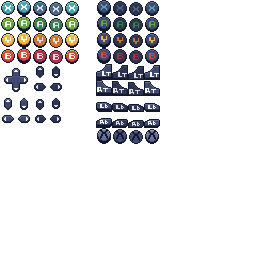
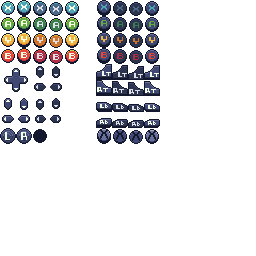
wip gamepad example

Changed region(s): [[0.0, 0.5, 0.1875, 0.5625]]

diff --git a/examples/gamepad/src/main.c b/examples/gamepad/src/main.c
@@ -1,37 +1,110 @@
-#include "nux.h"
+#include <nux.h>
+#define NU_IMPLEMENTATION
+#include <nulib.h>
 
-static u32 sprites[] = {
-    0, 16, 16, 16, 32, 16, 48, 16, // BUTTON_A
-    0, 0,  16, 0,  32, 0,  48, 0,  // BUTTON_X
-    0, 32, 16, 32, 32, 32, 48, 32, // BUTTON_Y
-    0, 48, 16, 48, 32, 48, 48, 48, // BUTTON_B
+static void
+blitt (nu_u32_t idx, nu_u32_t ts, nu_u32_t x, nu_u32_t y)
+{
+    blit(idx, x * ts, y * ts, ts, ts);
+}
+
+static nu_u32_t pressed[] = {
+    3, 1, // A
+    3, 0, // Y
+    3, 2, // B
+    3, 3, // X
+    2, 4, // UP
+    3, 4, // DOWN
+    2, 5, // LEFT
+    3, 5, // RIGHT
+    8, 6, // LB
+    8, 7, // RB
+};
+static nu_u32_t released[] = {
+    1, 1, // A
+    1, 0, // Y
+    1, 2, // B
+    1, 3, // X
+    0, 6, // UP
+    1, 6, // DOWN
+    0, 7, // LEFT
+    1, 7, // RIGHT
+    6, 6, // LB
+    6, 7, // RB
 };
 
-static u32 spritemap[] = {};
+static void
+draw_button (button_t b, nu_u32_t x, nu_u32_t y)
+{
+    cursor(x, y);
+    nu_u32_t        i = nu_log2(b);
+    const nu_u32_t *map;
+    if (button(0) & b)
+    {
+        map = pressed;
+    }
+    else
+    {
+        map = released;
+    }
+    blitt(0, 16, map[i * 2 + 0], map[i * 2 + 1]);
+}
+static void
+draw_stick (nu_bool_t left, nu_u32_t x, nu_u32_t y)
+{
+    nu_v2_t ax      = nu_v2(axis(0, left ? AXIS_LEFTX : AXIS_RIGHTX),
+                       axis(0, left ? AXIS_LEFTY : AXIS_RIGHTY));
+    ax              = nu_v2_normalize(ax);
+    nu_f32_t offset = 5;
+    nu_u32_t tx     = left ? 0 : 1;
+    nu_u32_t ty     = 8;
+    cursor(x, y);
+    blitt(0, 16, 2, ty);
+    cursor(x + offset * ax.x, y - offset * ax.y);
+    blitt(0, 16, tx, ty);
+}
+static void
+draw_trigger (nu_bool_t left, nu_u32_t x, nu_u32_t y)
+{
+    nu_f32_t ax     = axis(0, left ? AXIS_LT : AXIS_RT);
+    nu_f32_t offset = 3;
+    nu_u32_t tx     = 6;
+    nu_u32_t ty     = left ? 4 : 5;
+    cursor(x, y + offset * ax);
+    blitt(0, 16, tx, ty);
+}
 
 void
 start (void)
 {
-    trace("Hello World !");
 }
 
 void
 update (void)
 {
-    for (int j = 0; j < 4; ++j)
-    {
-        button_t b = BUTTON_A << j;
-        int      i = 0;
-        if (button(0) & b)
-        {
-            i = 3;
-        }
-        int offset = j * 8;
-        cursor(16, j * 16);
-        blit(0,
-             sprites[offset + i * 2 + 0],
-             sprites[offset + i * 2 + 1],
-             16,
-             16);
-    }
+    clear(NU_COLOR_GREY.rgba);
+    nu_v2u_t p = nu_v2u(100, 100);
+    nu_u32_t s = 12;
+    draw_button(BUTTON_A, p.x, p.y + s);
+    draw_button(BUTTON_Y, p.x, p.y - s);
+    draw_button(BUTTON_B, p.x + s, p.y);
+    draw_button(BUTTON_X, p.x - s, p.y);
+
+    p = nu_v2u(150, 100);
+    s = 8;
+    draw_button(BUTTON_DOWN, p.x, p.y + s);
+    draw_button(BUTTON_UP, p.x, p.y - s);
+    draw_button(BUTTON_RIGHT, p.x + s, p.y);
+    draw_button(BUTTON_LEFT, p.x - s, p.y);
+
+    p = nu_v2u(100, 50);
+    draw_button(BUTTON_LB, p.x, p.y);
+    p = nu_v2u(150, 50);
+    draw_button(BUTTON_RB, p.x, p.y);
+
+    draw_stick(NU_TRUE, 100, 150);
+    draw_stick(NU_FALSE, 150, 150);
+
+    draw_trigger(NU_TRUE, 100, 170);
+    draw_trigger(NU_FALSE, 150, 170);
 }

diff --git a/externals/nulib/nulib/math.h b/externals/nulib/nulib/math.h
@@ -204,15 +204,18 @@ NU_API nu_f32_t  nu_sin(nu_f32_t x);
 NU_API nu_f32_t  nu_tan(nu_f32_t x);
 NU_API nu_f32_t  nu_exp(nu_f32_t x);
 
-NU_API nu_v2_t nu_v2(nu_f32_t x, nu_f32_t y);
-NU_API nu_v2_t nu_v2_v2u(nu_v2u_t v);
-NU_API nu_v2_t nu_v2_add(nu_v2_t a, nu_v2_t b);
-NU_API nu_v2_t nu_v2_sub(nu_v2_t a, nu_v2_t b);
-NU_API nu_v2_t nu_v2_mul(nu_v2_t a, nu_v2_t b);
-NU_API nu_v2_t nu_v2_muls(nu_v2_t a, nu_f32_t s);
-NU_API nu_v2_t nu_v2_div(nu_v2_t a, nu_v2_t b);
-NU_API nu_v2_t nu_v2_divs(nu_v2_t a, nu_f32_t s);
-NU_API nu_v2_t nu_v2_floor(nu_v2_t a);
+NU_API nu_v2_t  nu_v2(nu_f32_t x, nu_f32_t y);
+NU_API nu_v2_t  nu_v2_v2u(nu_v2u_t v);
+NU_API nu_v2_t  nu_v2_add(nu_v2_t a, nu_v2_t b);
+NU_API nu_v2_t  nu_v2_sub(nu_v2_t a, nu_v2_t b);
+NU_API nu_v2_t  nu_v2_mul(nu_v2_t a, nu_v2_t b);
+NU_API nu_v2_t  nu_v2_muls(nu_v2_t a, nu_f32_t s);
+NU_API nu_v2_t  nu_v2_div(nu_v2_t a, nu_v2_t b);
+NU_API nu_v2_t  nu_v2_divs(nu_v2_t a, nu_f32_t s);
+NU_API nu_v2_t  nu_v2_floor(nu_v2_t a);
+NU_API nu_f32_t nu_v2_dot(nu_v2_t a, nu_v2_t b);
+NU_API nu_f32_t nu_v2_norm(nu_v2_t a);
+NU_API nu_v2_t  nu_v2_normalize(nu_v2_t v);
 
 NU_API nu_v3_t  nu_v3(nu_f32_t x, nu_f32_t y, nu_f32_t z);
 NU_API nu_v3_t  nu_v3s(nu_f32_t s);

diff --git a/externals/nulib/nulib/types.h b/externals/nulib/nulib/types.h
@@ -13,15 +13,17 @@
 #define NU_NULL  0
 #define NU_NOOP
 
-#define NU_DEFAULT_ALIGN  16
-#define NU_COLOR_WHITE    nu_color(255, 255, 255, 0)
-#define NU_COLOR_BLACK    nu_color(0, 0, 0, 0)
-#define NU_COLOR_RED      nu_color(255, 0, 0, 0)
-#define NU_COLOR_GREEN    nu_color(0, 255, 0, 0)
-#define NU_COLOR_BLUE     nu_color(0, 0, 255, 0)
-#define NU_COLOR_BLUE_SKY nu_color(52, 181, 248, 0)
-#define NU_PI             3.14159265359
-#define NU_FLT_MAX        3.402823E+38
+#define NU_DEFAULT_ALIGN   16
+#define NU_COLOR_WHITE     nu_color(255, 255, 255, 0)
+#define NU_COLOR_GREY      nu_color(128, 128, 128, 0)
+#define NU_COLOR_BLACK     nu_color(0, 0, 0, 0)
+#define NU_COLOR_RED       nu_color(255, 0, 0, 0)
+#define NU_COLOR_GREEN     nu_color(0, 255, 0, 0)
+#define NU_COLOR_BLUE      nu_color(0, 0, 255, 0)
+#define NU_COLOR_BLUE_SKY  nu_color(52, 181, 248, 0)
+#define NU_COLOR_BLUE_DARK nu_color(25, 27, 43, 255)
+#define NU_PI              3.14159265359
+#define NU_FLT_MAX         3.402823E+38
 
 #define NU_MIN(a, b)          (((a) < (b)) ? (a) : (b))
 #define NU_MAX(a, b)          (((a) > (b)) ? (a) : (b))

diff --git a/runtimes/native/window.c b/runtimes/native/window.c
@@ -144,7 +144,7 @@ key_to_button (nu_u32_t code)
 
         // Triggers
         case RGFW_e:
-            return SYS_BUTTON_LB;
+            return SYS_BUTTON_RB;
         case RGFW_q:
             return SYS_BUTTON_LB;
 
@@ -181,17 +181,24 @@ key_to_axis (nu_u32_t code, nu_f32_t *value)
 
         // Right Stick
         case RGFW_j:
-            *value = 1;
+            *value = -1;
             return SYS_AXIS_RIGHTY;
         case RGFW_h:
             *value = -1;
             return SYS_AXIS_RIGHTX;
         case RGFW_k:
-            *value = -1;
+            *value = 1;
             return SYS_AXIS_RIGHTY;
         case RGFW_l:
             *value = 1;
             return SYS_AXIS_RIGHTX;
+
+        case RGFW_u:
+            *value = 1;
+            return SYS_AXIS_LT;
+        case RGFW_o:
+            *value = 1;
+            return SYS_AXIS_RT;
 
         default:
             break;

diff --git a/externals/nulib/nulib/math_impl.h b/externals/nulib/nulib/math_impl.h
@@ -176,6 +176,29 @@ nu_v2_floor (nu_v2_t a)
     ret.y = nu_floor(a.y);
     return ret;
 }
+nu_f32_t
+nu_v2_dot (nu_v2_t a, nu_v2_t b)
+{
+    return a.x * b.x + a.y * b.y;
+}
+nu_f32_t
+nu_v2_norm (nu_v2_t a)
+{
+    return nu_sqrt(nu_v2_dot(a, a));
+}
+nu_v2_t
+nu_v2_normalize (nu_v2_t v)
+{
+    nu_f32_t norm = nu_v2_norm(v);
+    if (norm == 0)
+    {
+        return NU_V2_ZEROS;
+    }
+    nu_v2_t ret;
+    ret.x = v.x / norm;
+    ret.y = v.y / norm;
+    return ret;
+}
 
 nu_v3_t
 nu_v3 (nu_f32_t x, nu_f32_t y, nu_f32_t z)

diff --git a/examples/basic/src/camera.c b/examples/basic/src/camera.c
@@ -111,7 +111,7 @@ debug_camera (nu_f32_t dt, nu_v3_t *out_pos)
         }
         if (look.y != 0)
         {
-            controller.pitch += look.y * dt;
+            controller.pitch -= look.y * dt;
         }
         controller.pitch = NU_CLAMP(controller.pitch, -90.0, 90.0);
         controller.rot   = nu_q4_axis(NU_V3_UP, -nu_radian(controller.yaw));

diff --git a/docs/todo.md b/docs/todo.md
@@ -6,9 +6,9 @@
 [x] Draw fog effect
 [x] Draw primitives
 [x] Draw color
+[x] Fix 'Is a directory'
 [ ] Gamepad example
 [ ] Model animation
-[x] Fix 'Is a directory'
 [ ] Remove os_gpu_init (probably useless)
 [ ] Check bounds for 2d rendering
 [ ] Scissor / Viewport commands
